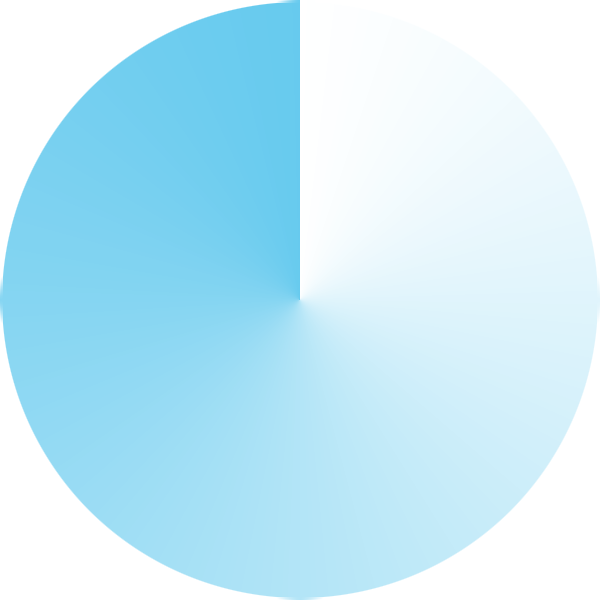
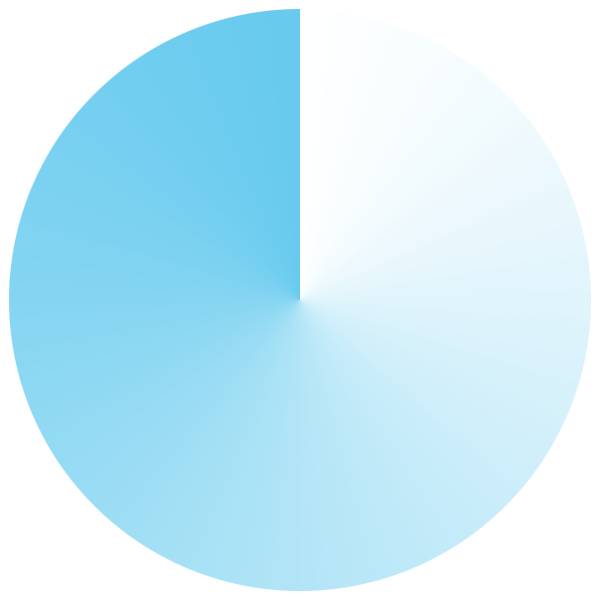
fondo oscuro

diff --git a/index.html b/index.html
@@ -9,31 +9,35 @@
 		}
 		body {
 			margin: 0;
-			padding: 0;
+			padding: 2em 0 0 0;
 			font-family: sans-serif;
+			background-color: #000;
+			overflow: hidden;
+			box-sizing: border-box;
 		}
 		#wrapper {
 			height: 100%;
 			display: flex;
 			flex-direction: column;
-			align-items: flex-start;
-			justify-content: flex-start;
+			align-items: center;
+			justify-content: center;
 			/* height is needed for IE10-11 for this bug */
 			/* http://bit.ly/16b1Xhx */
-			height: 24em;
+			/* height: 24em; */
 			/* other browsers use min-height */
 			@supports not (-ms-flex: 1) {
 				height: auto;
 				min-height: 24em;
 			}
+
 		}
 		#reloj {
-			align-self: flex-start;
 			position: relative;
 			width: 100%;  /* Or whatever */
 			height: 600px; /* Or whatever */
 			margin: auto;  /* Magic! */
 		}
+		#base,
 		#minutos,
 		#horas,
 		#corona {
@@ -57,6 +61,10 @@
 		#info {
 			align-self: flex-end;
 			font-size: 0.5em;
+			color: #222;
+		}
+		#info a {
+			color: #222;
 		}
  /* #horas {display: none}; */
 	</style>
@@ -66,11 +74,12 @@
 <body>
 	<div id="wrapper">
 		<div id="reloj">
+			<img src="base.png" id="base"/>
 			<img src="horas.png" id="horas"/>
 			<img src="minutos.png" id="minutos"/>
 			<img src="corona.png" id="corona"/>
 		</div>
-		<p id="info">Diseño basado en el <a href="http://www.ziiiro.com/page/support_how_it_works_Aurora">Ziiiro Aurora</a>.</p>
+		<p id="info">Diseño basado en el <a href="http://www.ziiiro.com/page/support_how_it_works_Aurora" target="_blank">Ziiiro Aurora</a>.</p>
 	</div>
 
 </body>
